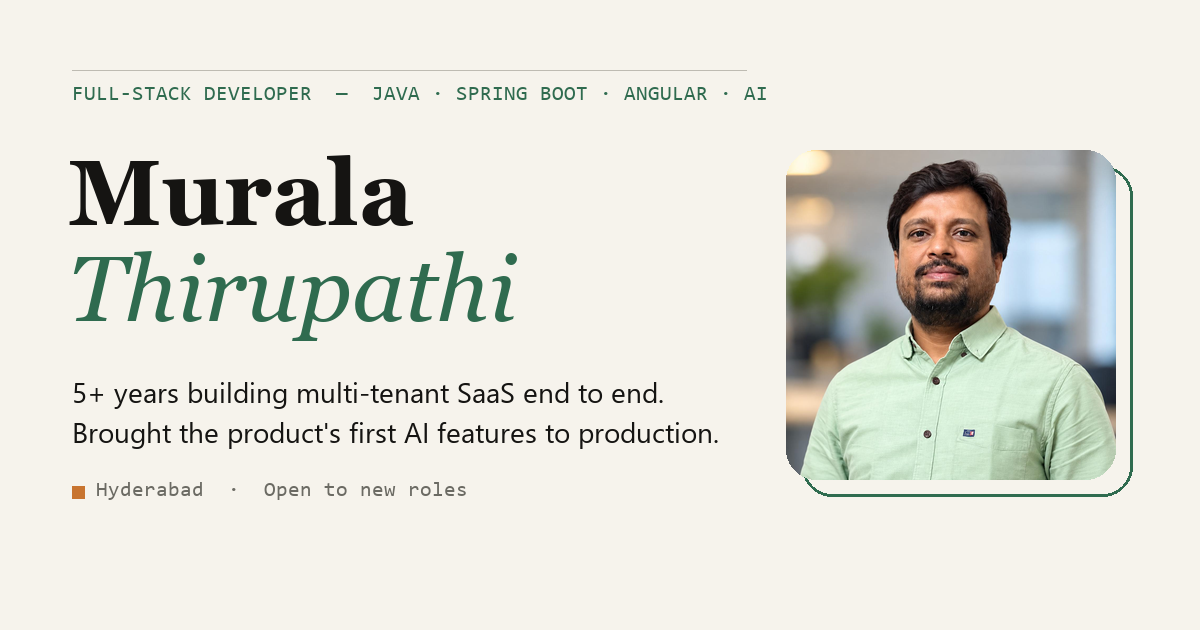
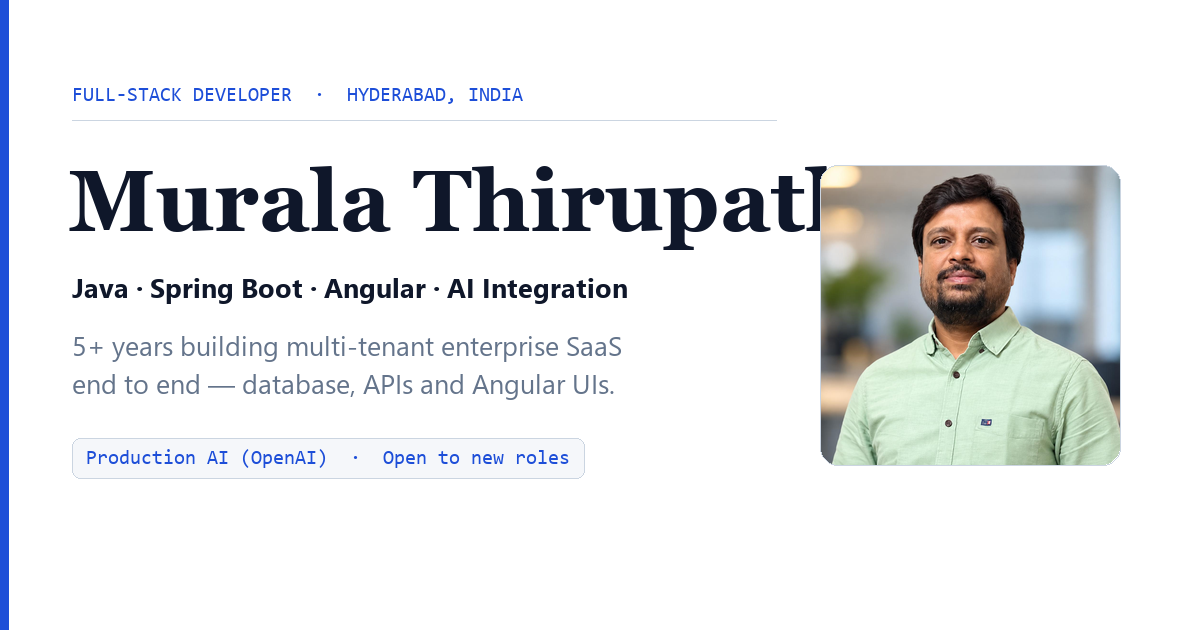
Professional palette (white/navy/blue), clean aligned portrait, factual tagline and badge; regenerate OG image

diff --git a/src/styles.css b/src/styles.css
@@ -8,19 +8,19 @@
 
 :root {
   /* surfaces */
-  --bg:#f6f3ec; --bg2:#efeadf; --surface:#fbf9f4; --surface2:#f3efe6; --nav-bg:rgba(246,243,236,.92);
-  --line:rgba(21,20,18,.12); --line2:rgba(21,20,18,.22);
+  --bg:#ffffff; --bg2:#f5f7fa; --surface:#ffffff; --surface2:#f5f7fa; --nav-bg:rgba(255,255,255,.94);
+  --line:rgba(15,23,42,.11); --line2:rgba(15,23,42,.19);
   /* text */
-  --ink:#151412; --text:#3a3934; --muted:#6b6a63; --muted2:#8b8a82; --strong:#0e0d0b;
+  --ink:#0f172a; --text:#334155; --muted:#64748b; --muted2:#94a3b8; --strong:#020617;
   /* accents */
-  --accent:#2f6b4f; --accent-ink:#245640; --accent-soft:rgba(47,107,79,.10); --accent-line:rgba(47,107,79,.35);
-  --terra:#c8742f; --terra-soft:rgba(200,116,47,.10);
-  --on-accent:#f6f3ec;
+  --accent:#1d4ed8; --accent-ink:#1e40af; --accent-soft:rgba(29,78,216,.07); --accent-line:rgba(29,78,216,.28);
+  --terra:#b45309; --terra-soft:rgba(180,83,9,.09);
+  --on-accent:#ffffff;
   /* buttons */
-  --btn-bg:#151412; --btn-ink:#f6f3ec;
+  --btn-bg:#0f172a; --btn-ink:#ffffff;
   /* shadows */
-  --shadow-card:0 18px 40px -24px rgba(21,20,18,.28);
-  --shadow-photo:0 30px 60px -30px rgba(21,20,18,.45);
+  --shadow-card:0 16px 36px -22px rgba(15,23,42,.22);
+  --shadow-photo:0 26px 54px -28px rgba(15,23,42,.34);
   /* type */
   --display:'Fraunces',Georgia,'Times New Roman',serif;
   --body:'Manrope',system-ui,-apple-system,'Segoe UI',sans-serif;
@@ -29,25 +29,22 @@
 }
 
 :root[data-theme="dark"] {
-  --bg:#0f1210; --bg2:#141816; --surface:#171b18; --surface2:#1c211d; --nav-bg:rgba(15,18,16,.9);
-  --line:rgba(242,239,230,.12); --line2:rgba(242,239,230,.22);
-  --ink:#f2efe6; --text:#c9c6bb; --muted:#8f8d84; --muted2:#6f6e67; --strong:#ffffff;
-  --accent:#7fc8a3; --accent-ink:#9ad8b8; --accent-soft:rgba(127,200,163,.12); --accent-line:rgba(127,200,163,.4);
-  --terra:#e8a26a; --terra-soft:rgba(232,162,106,.12);
-  --on-accent:#0f1210;
-  --btn-bg:#f2efe6; --btn-ink:#0f1210;
+  --bg:#0b1220; --bg2:#0f1729; --surface:#111a2e; --surface2:#16203a; --nav-bg:rgba(11,18,32,.92);
+  --line:rgba(226,232,240,.12); --line2:rgba(226,232,240,.21);
+  --ink:#f1f5f9; --text:#cbd5e1; --muted:#94a3b8; --muted2:#64748b; --strong:#ffffff;
+  --accent:#60a5fa; --accent-ink:#93c5fd; --accent-soft:rgba(96,165,250,.12); --accent-line:rgba(96,165,250,.38);
+  --terra:#fbbf24; --terra-soft:rgba(251,191,36,.12);
+  --on-accent:#0b1220;
+  --btn-bg:#f1f5f9; --btn-ink:#0b1220;
   --shadow-card:0 18px 40px -24px rgba(0,0,0,.7);
-  --shadow-photo:0 30px 60px -30px rgba(0,0,0,.8);
+  --shadow-photo:0 28px 56px -28px rgba(0,0,0,.75);
   color-scheme:dark;
 }
 
 html { scroll-behavior:smooth; scroll-padding-top:84px; }
 body { background:var(--bg); color:var(--text); font-family:var(--body); line-height:1.65; overflow-x:hidden;
   -webkit-font-smoothing:antialiased; text-rendering:optimizeLegibility; transition:background .3s ease, color .3s ease; }
-/* subtle paper grain — gives the page a physical feel without images */
-body::before { content:''; position:fixed; inset:0; pointer-events:none; z-index:0; opacity:.045; mix-blend-mode:multiply;
-  background-image:radial-gradient(rgba(0,0,0,.9) .6px, transparent .7px); background-size:3px 3px; }
-:root[data-theme="dark"] body::before { opacity:.06; mix-blend-mode:screen; background-image:radial-gradient(rgba(255,255,255,.9) .6px, transparent .7px); }
+/* (paper grain removed — clean surfaces read more professional) */
 h1,h2,h3,.brand,.stat-n,.imp-hi,.modal-title,.fcard h3 { font-family:var(--display); font-weight:600; letter-spacing:-.01em; }
 a { text-decoration:none; color:inherit; }
 strong { color:var(--strong); font-weight:700; }
@@ -101,11 +98,12 @@ strong { color:var(--strong); font-weight:700; }
   font-variation-settings:"opsz" 144; }
 .hero h1 .w { display:block; opacity:0; animation:rise .95s cubic-bezier(.2,.75,.2,1) forwards; }
 .hero h1 .w + .w { animation-delay:.14s; }
-.hero h1 .em { font-style:italic; color:var(--accent); font-weight:500; }
+.hero h1 .em { color:var(--ink); font-weight:600; }
 @keyframes rise { from { opacity:0; transform:translateY(26px); filter:blur(6px); } to { opacity:1; transform:none; filter:blur(0); } }
 .hero .tag { font-size:clamp(17px,2vw,20px); color:var(--text); font-weight:600; letter-spacing:-.005em; }
-.flag { display:block; margin:22px 0 4px; font-size:14.5px; font-weight:600; color:var(--terra); }
-.flag::before { content:''; display:inline-block; width:10px; height:10px; background:var(--terra); border-radius:2px; margin-right:10px; vertical-align:middle; position:relative; top:-1px; }
+.flag { display:inline-block; margin:20px 0 2px; padding:7px 14px; font-size:13.5px; font-weight:600; color:var(--accent-ink);
+  background:var(--accent-soft); border:1px solid var(--accent-line); border-radius:8px; }
+.flag b { color:var(--accent-ink); font-weight:700; }
 .flag b { color:var(--terra); }
 .flag span[aria-hidden] { display:none; }
 .hero .intro { max-width:600px; margin:18px 0 30px; font-size:17px; color:var(--text); line-height:1.7; }
@@ -113,16 +111,13 @@ strong { color:var(--strong); font-weight:700; }
 .loc span[aria-hidden] { display:none; }
 .loc::before { content:'◦ '; color:var(--accent); }
 
-/* photo block — rounded square with offset accent frame (not the default circle) */
-.hero-photo { position:relative; justify-self:end; }
-.hero-photo::before { content:''; position:absolute; inset:0; transform:translate(16px,16px); border:2px solid var(--accent);
-  border-radius:26px; z-index:0; transition:transform .5s cubic-bezier(.2,.75,.2,1); }
-.hero-photo:hover::before { transform:translate(10px,10px); }
-.hero-photo img { position:relative; z-index:1; width:340px; height:340px; border-radius:26px; object-fit:cover; display:block;
-  box-shadow:var(--shadow-photo); filter:saturate(1.02); transition:transform .5s cubic-bezier(.2,.75,.2,1); }
-.hero-photo:hover img { transform:translate(-4px,-4px); }
-.hero-photo::after { content:'Since 2021 · 5+ yrs'; position:absolute; left:-14px; bottom:22px; z-index:2; background:var(--surface);
-  border:1px solid var(--line2); color:var(--ink); font-family:var(--mono); font-size:11.5px; letter-spacing:.06em; padding:7px 11px; border-radius:6px; }
+/* photo block — clean, aligned portrait card */
+.hero-photo { position:relative; justify-self:end; display:flex; flex-direction:column; align-items:center; gap:14px; }
+.hero-photo img { display:block; width:320px; height:320px; border-radius:16px; object-fit:cover; object-position:center 22%;
+  border:1px solid var(--line2); box-shadow:var(--shadow-photo); }
+.hero-photo figcaption, .hero-photo .cap-chip { display:inline-flex; align-items:center; gap:8px; color:var(--muted);
+  font-family:var(--mono); font-size:11.5px; letter-spacing:.05em; }
+.hero-photo .cap-chip::before { content:''; width:6px; height:6px; border-radius:50%; background:var(--accent); }
 
 /* buttons */
 .cta { display:flex; gap:12px; flex-wrap:wrap; align-items:center; }
@@ -284,7 +279,7 @@ h2::after { content:''; flex:1; height:1px; background:var(--line2); margin-left
 
 /* ============ RESPONSIVE ============ */
 @media (max-width:980px) {
-  .hero-photo img { width:280px; height:280px; }
+  .hero-photo img { width:270px; height:270px; }
   .hero h1 { font-size:clamp(46px,8vw,80px); }
 }
 @media (max-width:900px) {
@@ -292,10 +287,8 @@ h2::after { content:''; flex:1; height:1px; background:var(--line2); margin-left
   .about-grid, .featured-grid, .expertise-grid { grid-template-columns:1fr; }
   .hero { padding:64px 0 60px; }
   .hero-inner { grid-template-columns:1fr; gap:36px; }
-  .hero-photo { justify-self:start; order:-1; }
-  .hero-photo img { width:200px; height:200px; border-radius:20px; }
-  .hero-photo::before { border-radius:20px; transform:translate(12px,12px); }
-  .hero-photo::after { left:-10px; bottom:14px; font-size:10.5px; }
+  .hero-photo { justify-self:start; order:-1; align-items:flex-start; }
+  .hero-photo img { width:190px; height:190px; border-radius:14px; }
   .hero h1 { overflow-wrap:break-word; }
   .stats { grid-template-columns:repeat(2,1fr); gap:22px 24px; }
   .techstrip { gap:20px; }

diff --git a/src/app/app.component.html b/src/app/app.component.html
@@ -67,7 +67,7 @@
       <p class="eyebrow a1">Full-Stack Developer — Hyderabad, India</p>
       <h1 class="a2"><span class="w">Murala</span> <span class="w em">Thirupathi</span></h1>
       <p class="tag a3">{{ tagline }}</p>
-      <div class="flag a4"><span aria-hidden="true">🤖</span> Built the product's first <b>AI</b> features (OpenAI)</div>
+      <div class="flag a4">5+ years · Multi-tenant SaaS · <b>Production AI (OpenAI)</b></div>
       <p class="intro a5">{{ intro }}</p>
       <div class="cta a6">
         <a class="btn" [href]="'mailto:' + email">Get in touch</a>
@@ -84,7 +84,8 @@
       </dl>
     </div>
     <div class="hero-photo a3" *ngIf="photoOk">
-      <img [src]="photo" alt="Portrait of Murala Thirupathi" width="340" height="340" fetchpriority="high" (error)="onPhotoError()">
+      <img [src]="photo" alt="Portrait of Murala Thirupathi" width="320" height="320" fetchpriority="high" (error)="onPhotoError()">
+      <span class="cap-chip">Available for new roles</span>
     </div>
   </div>
 </section>
@@ -100,9 +101,9 @@
         <strong>multi-tenant enterprise SaaS platform</strong> spanning HR, health, fleet, invoicing and security.
       </p>
       <p class="reveal" style="transition-delay:.08s">
-        I'm <strong>backend-first</strong> — I started in Java and grew into full-stack with Angular, and I'm proud to
-        have built the <strong>product's first AI features</strong>. I'm not done learning — right now I'm going deep on
-        <strong>LLMs, RAG and agentic AI</strong>, because the best engineers never stop growing.
+        I'm <strong>backend-first</strong> — I started in Java and grew into full-stack with Angular, and I built the
+        <strong>product's first AI features</strong> with validation and human review built in. I'm currently going
+        deeper into <strong>LLMs, RAG and agentic AI</strong> through hands-on projects.
       </p>
       <dl class="facts reveal" style="transition-delay:.16s">
         <dt>Based in</dt><dd>Hyderabad, India · Hybrid or Remote</dd>

diff --git a/src/index.html b/src/index.html
@@ -5,8 +5,8 @@
   <title>Murala Thirupathi (MTR) — Full-Stack Developer · Java · Spring Boot · Angular · AI</title>
   <meta name="description" content="Murala Thirupathi (MTR) — backend-first full-stack developer with 5+ years in Java, Spring Boot and Angular at a product company. First to bring AI into the product; now going deep on LLMs & RAG. Hyderabad or Remote.">
   <meta name="viewport" content="width=device-width, initial-scale=1">
-  <meta name="theme-color" content="#0f1210" media="(prefers-color-scheme: dark)">
-  <meta name="theme-color" content="#f6f3ec" media="(prefers-color-scheme: light)">
+  <meta name="theme-color" content="#0b1220" media="(prefers-color-scheme: dark)">
+  <meta name="theme-color" content="#ffffff" media="(prefers-color-scheme: light)">
   <link rel="canonical" href="https://murala-thirupathi.netlify.app/">
   <meta name="author" content="Murala Thirupathi">
   <meta name="robots" content="index, follow">

diff --git a/src/app/app.component.ts b/src/app/app.component.ts
@@ -25,7 +25,7 @@ export class AppComponent implements AfterViewInit, OnDestroy {
 
   name = 'Murala Thirupathi';
   alias = 'MTR';
-  tagline = 'Java · Spring Boot · Angular — and the engineer who brought AI into the product.';
+  tagline = 'Java · Spring Boot · Angular · AI Integration';
   email = 'thirupathiraomurala@gmail.com';
   phone = '+91 96400 46001';
   location = 'Hyderabad, Telangana · Open to new roles — Hybrid or Remote';
